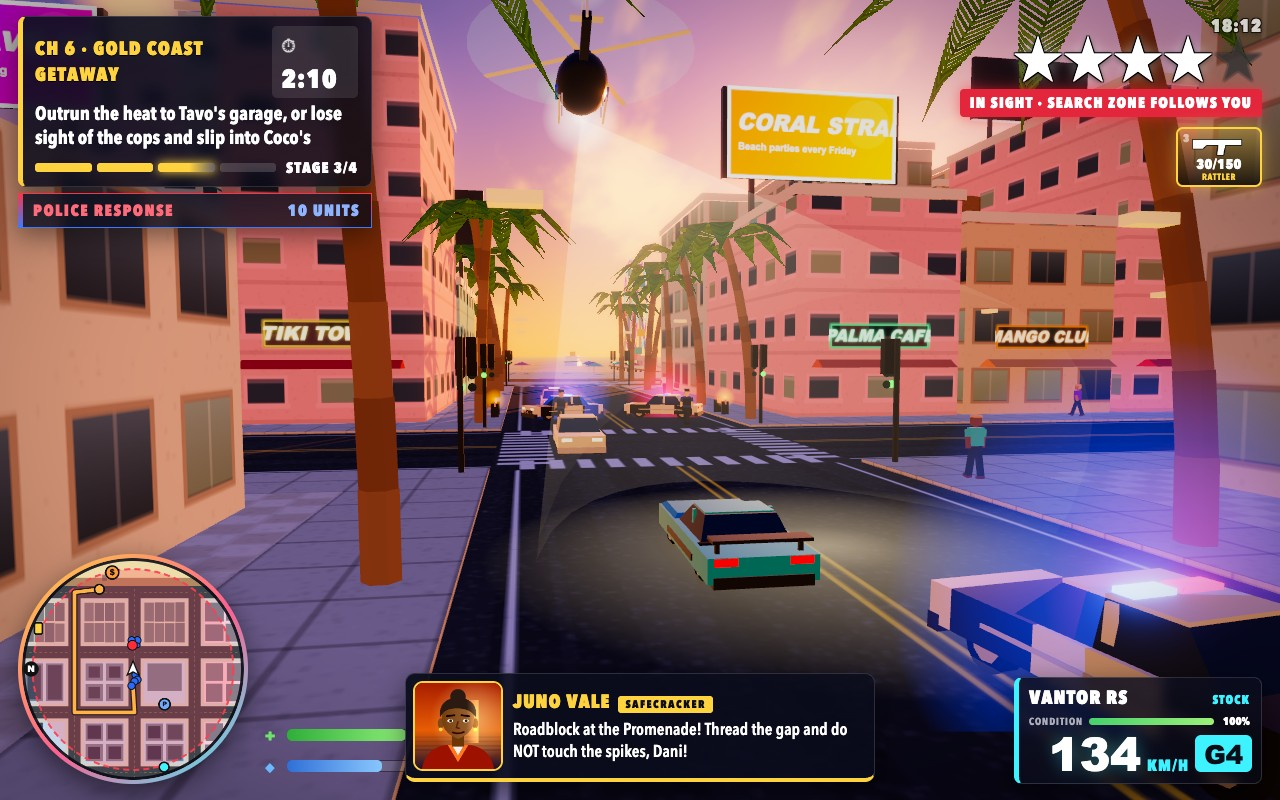
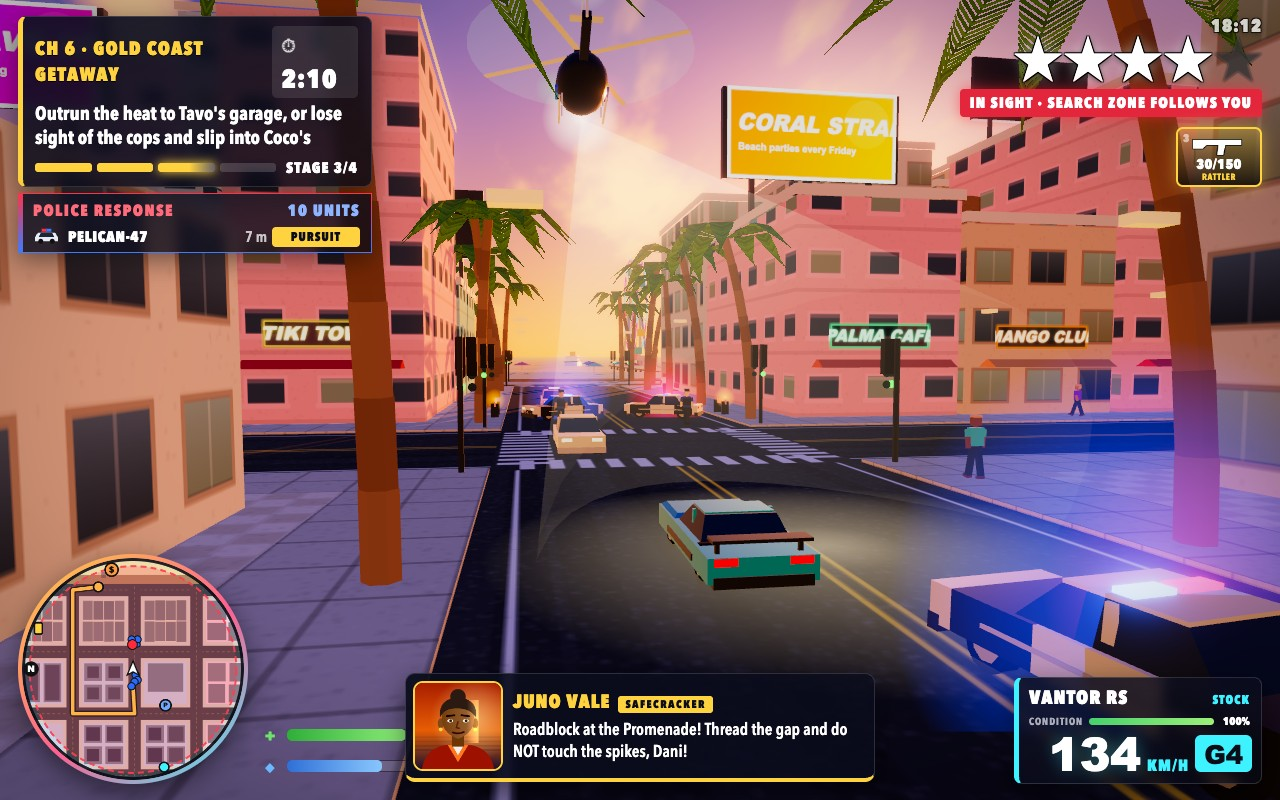
Improve pursuit HUD and gameplay captures

Changed region(s): [[0.0, 0.6875, 0.1875, 0.9688], [0.0, 0.25, 0.3125, 0.3438]]

diff --git a/game/src/shots/shotScenes.js b/game/src/shots/shotScenes.js
@@ -5,7 +5,7 @@
 //           a roadblock with spike strips ahead, Juno on the radio
 //   beach   midday carjacking on Ocean Promenade by the pier and the Sol Wheel, a witness calls it in
 //   neon    Velvet Static: a night shootout with the Velvet Knives under Deco Row's neon
-//   garage  Tavo's Chrome & Paint: the upgrade menu over Dani's car
+//   payoff  Gold Coast Getaway: Dani completes the quiet Coco drop on foot in Coral Strand
 import { STEP } from '../config.js';
 import { giveWeapon } from '../combat/weapons.js';
 import { freshState } from '../gameplay/session.js';
@@ -184,42 +184,45 @@ const SCENES = {
       run(game, tools, 0.3, [], { aim: true, onStep: () => aimAt(next) });
       run(game, tools, 0.22, [], { aim: true, fire: true, onStep: () => aimAt(next) });
     }
-    // Pull the lens back over Dani's right shoulder to take in the whole street.
+    // Keep Dani and the next Knife large in frame, with the neon street still establishing Deco Row.
     const h = p.human, t = (next ?? first).human;
     const len = Math.hypot(t.x - h.x, t.z - h.z) || 1;
     const fx = (t.x - h.x) / len, fz = (t.z - h.z) / len;
-    game.camera.setPose(h.x - fx * 6.5 - fz * 2.2, 2.5, h.z - fz * 6.5 + fx * 2.2, h.x + fx * 30, 2.4, h.z + fz * 30, 58);
+    game.camera.setPose(h.x - fx * 4.6 - fz * 1.7, 2.25, h.z - fz * 4.6 + fx * 1.7, t.x, t.y + 1.25, t.z, 45);
     clearLens(game, 3);
   },
 
-  garage(game, tools) {
-    prepare(game, 19.45, 6, { respect: 2750 });
+  payoff(game, tools) {
+    prepare(game, 16.1, 5, { respect: 2750 });
     const p = game.player;
-    game.audio.radio.setStation(1);
     giveWeapon(p.inventory, 'pistol', 60);
     giveWeapon(p.inventory, 'smg', 150);
-    const bay = game.garage.bay;
-    const car = game.vehicles.spawn('vantor', bay.x, bay.z + 1.5, Math.PI * 0.84, { color: '#e0115f' });
-    car.tune = { engine: 1, armor: 1, brakes: 0 };
-    car.personal = true;
-    car.persistent = true;
-    car.health = car.maxHealth * 0.71;
-    p.teleport(car.x + 2, car.z);
-    p.enterVehicle(car);
-    populate(game, bay.x, bay.z, 3, 8, 50, 120);
-    run(game, tools, 0.5);
-    game.ui.openGarage();
-    game.garageMenu.select(2);
-    // A low three-quarter view of the car on the forecourt, the lit workshop door behind it.
-    game.camera.setPose(car.x - 7.2, 1.7, car.z - 7.2, car.x + 3.4, 1.4, car.z + 4.4, 54);
-    clearLens(game, 4);
+    p.inventory.current = 'smg';
+    const ctx = startChapterAt(game, 'goldcoast', 2, "Outrun the heat to Tavo's garage, or lose sight of the cops and slip into Coco's");
+    game.vehicles.remove(ctx.data.truck);
+    const coco = LANDMARKS.cocoShack;
+    const drop = { x: lineCoord(9) + 3.5, z: coco.front.z - 10 };
+    ctx.timer(74.2);
+    ctx.waypoint(LANDMARKS.tavoGarage.x, LANDMARKS.tavoGarage.z - 13, { radius: 4.5, color: '#3ef2ff', label: "Tavo's garage" });
+    p.teleport(drop.x, drop.z, Math.PI);
+    populate(game, drop.x, drop.z, 4, 15, 35, 115);
+    game.wanted.clear();
+    game.police.reset();
+    game.dialogue.clear();
+    game.hud.clearBanners();
+    // Two normal mission ticks: enter Coco's live objective, then award the authentic quiet-drop payout.
+    run(game, tools, STEP * 2);
+    game.dialogue.clear();
+    game.camera.setPose(p.x - 5.8, 2.35, p.z - 5.4, p.x + 1.2, 1.45, p.z + 1.8, 53);
+    clearLens(game, 3);
   },
 };
 
 export function stageShot(name, game, tools) {
+  if (name === 'garage') name = 'payoff';
   const scene = SCENES[name] ?? SCENES.cover;
   game.player.controlsLocked = false;
   game.player.human.model.group.visible = true;
   scene(game, tools);
-  game.hud.clearBanners();
+  if (name !== 'payoff') game.hud.clearBanners();
 }

diff --git a/game/src/ui/styles.css b/game/src/ui/styles.css
@@ -208,7 +208,11 @@ html, body { margin: 0; height: 100%; overflow: hidden; background: #0b0d16; fon
 #hud.pursuit #hud-mission { padding: 9px 13px 8px 12px; background: linear-gradient(160deg, rgba(14,16,34,0.92), rgba(8,9,22,0.82)); }
 #hud.pursuit #hud-objective { margin: 5px 0 7px; font-size: 19px; }
 #hud.pursuit #hud-dispatch { padding: 6px 11px 5px 10px; }
-#hud.pursuit #hud-dispatch-rows,
+#hud.pursuit #hud-dispatch-rows { display: flex; margin: 5px 0 0; }
+#hud.pursuit #hud-dispatch-rows li { display: none; grid-template-columns: 30px 1fr 52px 88px; font-size: 15px; gap: 5px; }
+#hud.pursuit #hud-dispatch-rows li:first-child { display: grid; }
+#hud.pursuit #hud-dispatch-rows li i svg { width: 27px; }
+#hud.pursuit #hud-dispatch-rows li em { font-size: 12px; }
 #hud.pursuit #hud-dispatch-more { display: none; }
 #hud.pursuit #hud-topright { gap: 0; }
 #hud.pursuit #hud-clock { font-size: 18px; opacity: 0.75; }

diff --git a/game/src/main.js b/game/src/main.js
@@ -2,7 +2,7 @@
 // object, then runs the screens (title, intro, play, pause, shop, garage) with the world
 // advancing in fixed 1/60 s steps and rendering once per frame through the bloom pipeline.
 //
-// ?shot=cover|beach|neon|garage&seed=N stages a screenshot scene from the real game code,
+// ?shot=cover|beach|neon|payoff&seed=N stages a screenshot scene from the real game code,
 // renders it and sets window.__shotReady (see shots/shotScenes.js).
 import * as THREE from 'three';
 // The Bay Police: wanted level, pursuit units, helicopter, roadblocks, dispatch, witnesses.

diff --git a/README.md b/README.md
@@ -10,7 +10,7 @@ Dani Reyes took a six-year fall for the Saltjaw Crew and kept quiet. Now Dani is
 
 | | | |
 | --- | --- | --- |
-| ![Close on-foot combat under Deco Row's rain-slick neon](screenshots/2-neon-action.jpg) | ![A witness reports the stolen car beside the beach and Sol Wheel](screenshots/3-beach-witness.jpg) | ![Engine, armour and brake progression at Tavo's garage](screenshots/4-garage-progression.jpg) |
+| ![Close on-foot combat under Deco Row's rain-slick neon](screenshots/2-neon-action.jpg) | ![A witness reports the stolen car beside the beach and Sol Wheel](screenshots/3-beach-witness.jpg) | ![Gold Coast Getaway completed on foot at Coco's Coral Strand side door](screenshots/4-gold-coast-payoff.jpg) |
 
 ## What's in it
 
@@ -23,7 +23,7 @@ Dani Reyes took a six-year fall for the Saltjaw Crew and kept quiet. Now Dani is
 - **Story.** Eight chapters with stages, timers and voiced-style dialogue with painted portraits: *Homecoming*, *Showroom Special*, *Heat Wave*, *Velvet Static* (a neon night shootout with the Velvet Knives and their boss), *Tail Lights*, *Gold Coast Getaway* (an armored-truck heist and a four-star escape that ends at Tavo's garage, which takes Dani in under fire, or at Coco's side door a block away, which only opens once no unit can see Dani and costs a cut; Tavo remembers which), *Ironwake Reckoning* and *Sunset Run*.
 - **Progression.** Respect from chapters, side jobs, carjackings, escapes and crew fights climbs six ranks, from Fresh Out to Golden Coast Legend, unlocking guns at Bayside Arms and upgrade tiers at Tavo's Chrome & Paint: repairs, a respray that loses the heat, engine tunes, armour plating and race brakes, each previewed on stat bars. An upgraded car becomes Dani's own and is saved.
 - **Side activities.** Solcab taxi fares, Coco's Taco Run deliveries, 25 hidden Sun Medallions, rival crew turf, the safehouse save point and pickups around the city.
-- **HUD.** A mission card with chapter, timer, objective, STAGE n/m and what is NEXT; the police-response panel; cash, clock and wanted stars with IN SIGHT / SEARCH ZONE; a five-slot weapon bar with ammo and respect locks; a rotating minimap with GPS route, blips and the police search circle; the district pill; health, armour and respect bars; a radio card with song and artist; a vehicle card with condition, speed and gear; toasts and dialogue. When a pursuit starts, secondary free-roam details collapse so the objective, heat, minimap and survival information stay readable at speed.
+- **HUD.** A mission card with chapter, timer, objective, STAGE n/m and what is NEXT; the police-response panel; cash, clock and wanted stars with IN SIGHT / SEARCH ZONE; a five-slot weapon bar with ammo and respect locks; a rotating minimap with GPS route, blips and the police search circle; the district pill; health, armour and respect bars; a radio card with song and artist; a vehicle card with condition, speed and gear; toasts and dialogue. When a pursuit starts, secondary free-roam details collapse while the nearest real dispatch unit stays visible with its call sign, live status and range.
 - **Menus and saves.** A title screen with a story intro, and a pause menu with the city map (click to set a waypoint), the chapter brief and stats, settings and controls. Progress saves to localStorage.
 - **Sound.** Four procedural radio stations with original song titles (Sunwave 101.7, Bayside Bass 94.3, Radio Tropicana 88.9, Low Tide 106.1), plus engines, sirens, the helicopter, surf, gunfire, crashes and explosions, all synthesised with Web Audio.
 
@@ -58,7 +58,7 @@ Then open http://localhost:8080 in desktop Chrome. Any static file server pointe
 
 Developer extras:
 - The four screenshots are unedited 1280 × 800 playable Chrome captures of the deterministic scenes listed in `shots.json`.
-- `?shot=cover|beach|neon|garage&seed=1` stages four posed scenes from the game code, kept as a development aid.
+- `?shot=cover|beach|neon|payoff&seed=1` stages four posed scenes from the game code, kept as a development aid.
 - `?selftest=1` plays through every system in fast-forward and reports each step, both Gold Coast drops included.
 - `node --test tests/*.test.mjs` checks the chase camera's framing (car placement, field of view, look-ahead, recentre rules).
 
